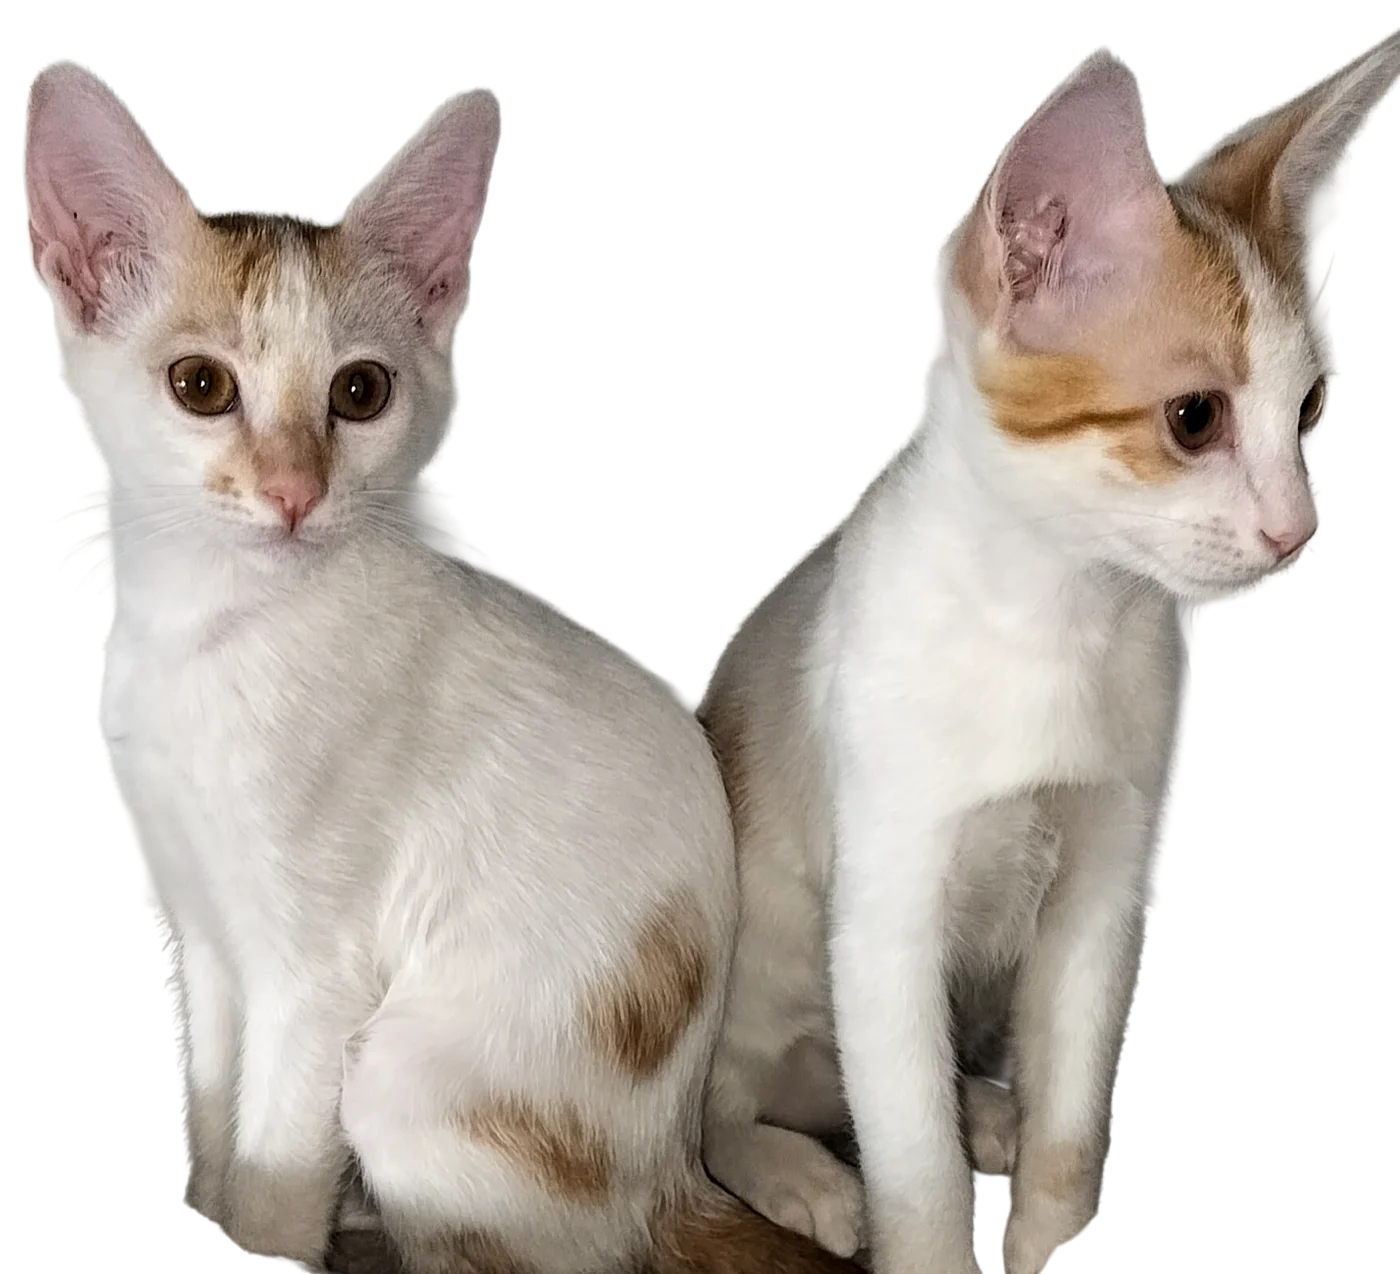
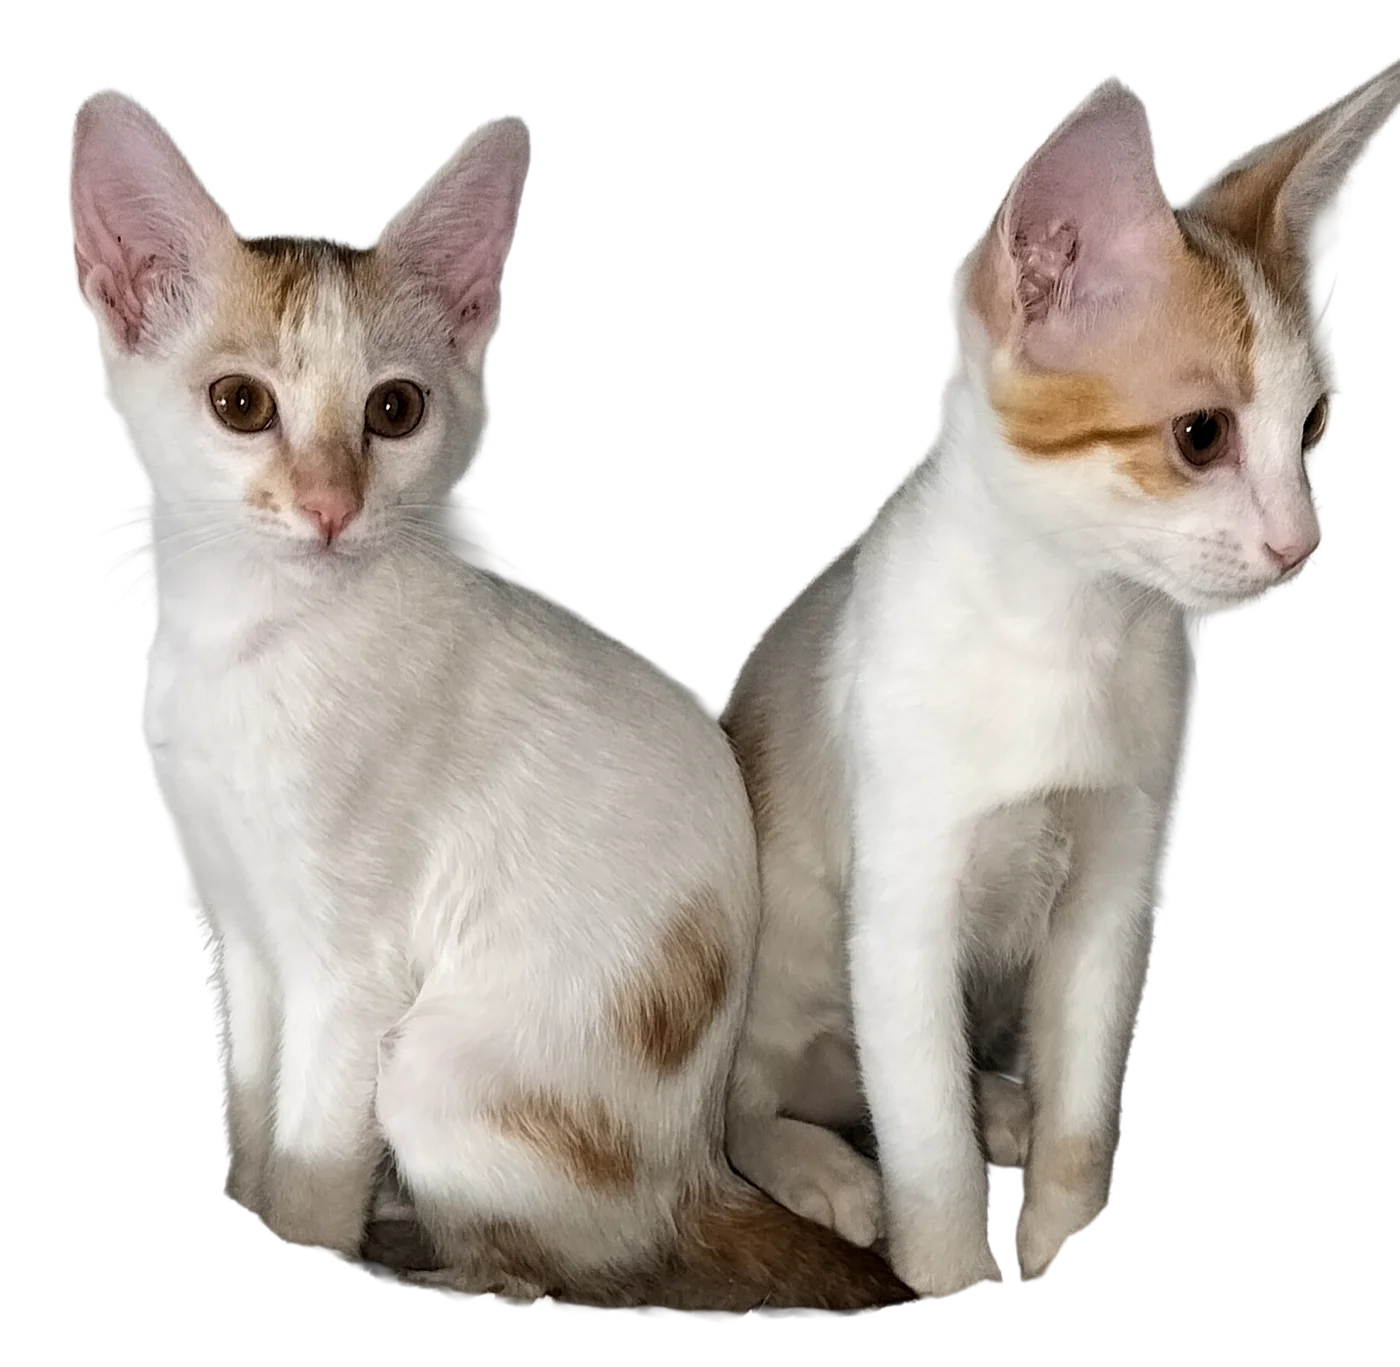
Hero, second pass: whole paws, and the band stops below the eyes
OD scrolled it and found two things the measurements had not.

The leg crop: the cutout keeps a lip of the cat bed under the paws, and the first
crop cut through the legs. Phone hid that by bleeding the image past the fold;
desktop showed the whole image, so the cut read as a flat chop across flat colour.
Re-cropped to whole paws, and desktop bleeds too -- the viewport edge is the crop
now, which reads as framing.

The end of the scroll: the band's final top was landing at y=191 on a 760px desktop
viewport, above the kittens' eyes, so the scroll ended on hindquarters. The trailing
runway is the knob that decides how far the band climbs; 32vh -> 12vh puts its top
at y=367 desktop and y=353 phone. The eyes clear it by 241px and 54px, and the chins
sit at the band line -- which is what the green photo did. Phone kittens lifted
slightly (height 58->60%, bottom -4% -> -1%) to buy the last few pixels.

Note the runway is a pacing control as well as a framing one: the band now has less
fully-revealed reading time. Flagged in STATE.md to revisit together.

diff --git a/assets/style.css b/assets/style.css
@@ -44,7 +44,12 @@ a{color:inherit;}
 .pin img{position:absolute;inset:0;width:100%;height:100%;object-fit:cover;transform-origin:center center;will-change:transform;}
 
 .pin--hero{background:var(--sage);}
-.pin--hero img{left:auto;right:0;width:56%;object-fit:contain;object-position:right bottom;transform-origin:bottom right;}  /* cutout on the sage field — see index.html SCENE 1 */
+/* Cutout on the sage field — see index.html SCENE 1. The image BLEEDS past the bottom of the
+   pin on purpose: the cutout keeps a lip of the cat bed under the paws, and a flat horizontal
+   cut across the legs on flat colour reads as a mistake. Bleeding it makes the viewport edge
+   the crop, which reads as framing. Phone did this from the start; desktop was showing the
+   whole image and therefore the cut (OD caught it, 2026-09-15). */
+.pin--hero img{left:auto;right:0;width:56%;height:100%;top:auto;bottom:-7%;object-fit:contain;object-position:right bottom;transform-origin:bottom right;}
 .hero-copy{position:relative;z-index:2;align-self:center;padding:0 6vw;width:50%;flex:0 0 50%;container-type:inline-size;will-change:opacity,transform;}
 .eyebrow{font-size:0.78rem;font-weight:600;letter-spacing:0.16em;text-transform:uppercase;color:var(--ink);opacity:0.75;margin-bottom:1rem;}
 /* Ink, not white, since 2026-09-15: the hero copy sits on the flat sage field now, not on a
@@ -177,7 +182,7 @@ footer strong{font-family:var(--font-head);color:var(--white);font-size:1rem;dis
   /* Hero: kittens along the bottom, bled a little past both edges so they read big;
      copy above them on flat sage, in ink. */
   .pin--hero{display:block;height:82vh;height:82svh;}
-  .pin--hero img{width:118%;left:-9%;right:auto;height:58%;top:auto;bottom:-4%;opacity:1;
+  .pin--hero img{width:118%;left:-9%;right:auto;height:60%;top:auto;bottom:-1%;opacity:1;
     object-fit:contain;object-position:center bottom;transform-origin:bottom center;}
   .hero-copy{position:absolute;top:0;left:0;right:0;
     padding-top:calc(102px + env(safe-area-inset-top,0px));}

diff --git a/index.html b/index.html
@@ -78,7 +78,10 @@
         <p>It's a network, not a shelter — a healthy stray in Pune has no government system waiting for it, only rescuers who refuse to look away. catadoption_pune lists and vets the cats they save — Baner, Kothrud, Viman Nagar, Kharadi, Pimple Saudagar and beyond — and matches each one with a genuinely good home.</p>
       </div>
     </div>
-    <div class="runway" style="height:32vh"></div>
+    <!-- 12vh, not 32: the trailing runway is what decides how far the band climbs, and at 32
+         it finished ABOVE the kittens' eyes (measured: band top landed at y=191 on a 760px
+         desktop viewport). The eyes are the thing worth keeping visible. OD, 2026-09-15. -->
+    <div class="runway" style="height:12vh"></div>
   </div>
 </section>
 
